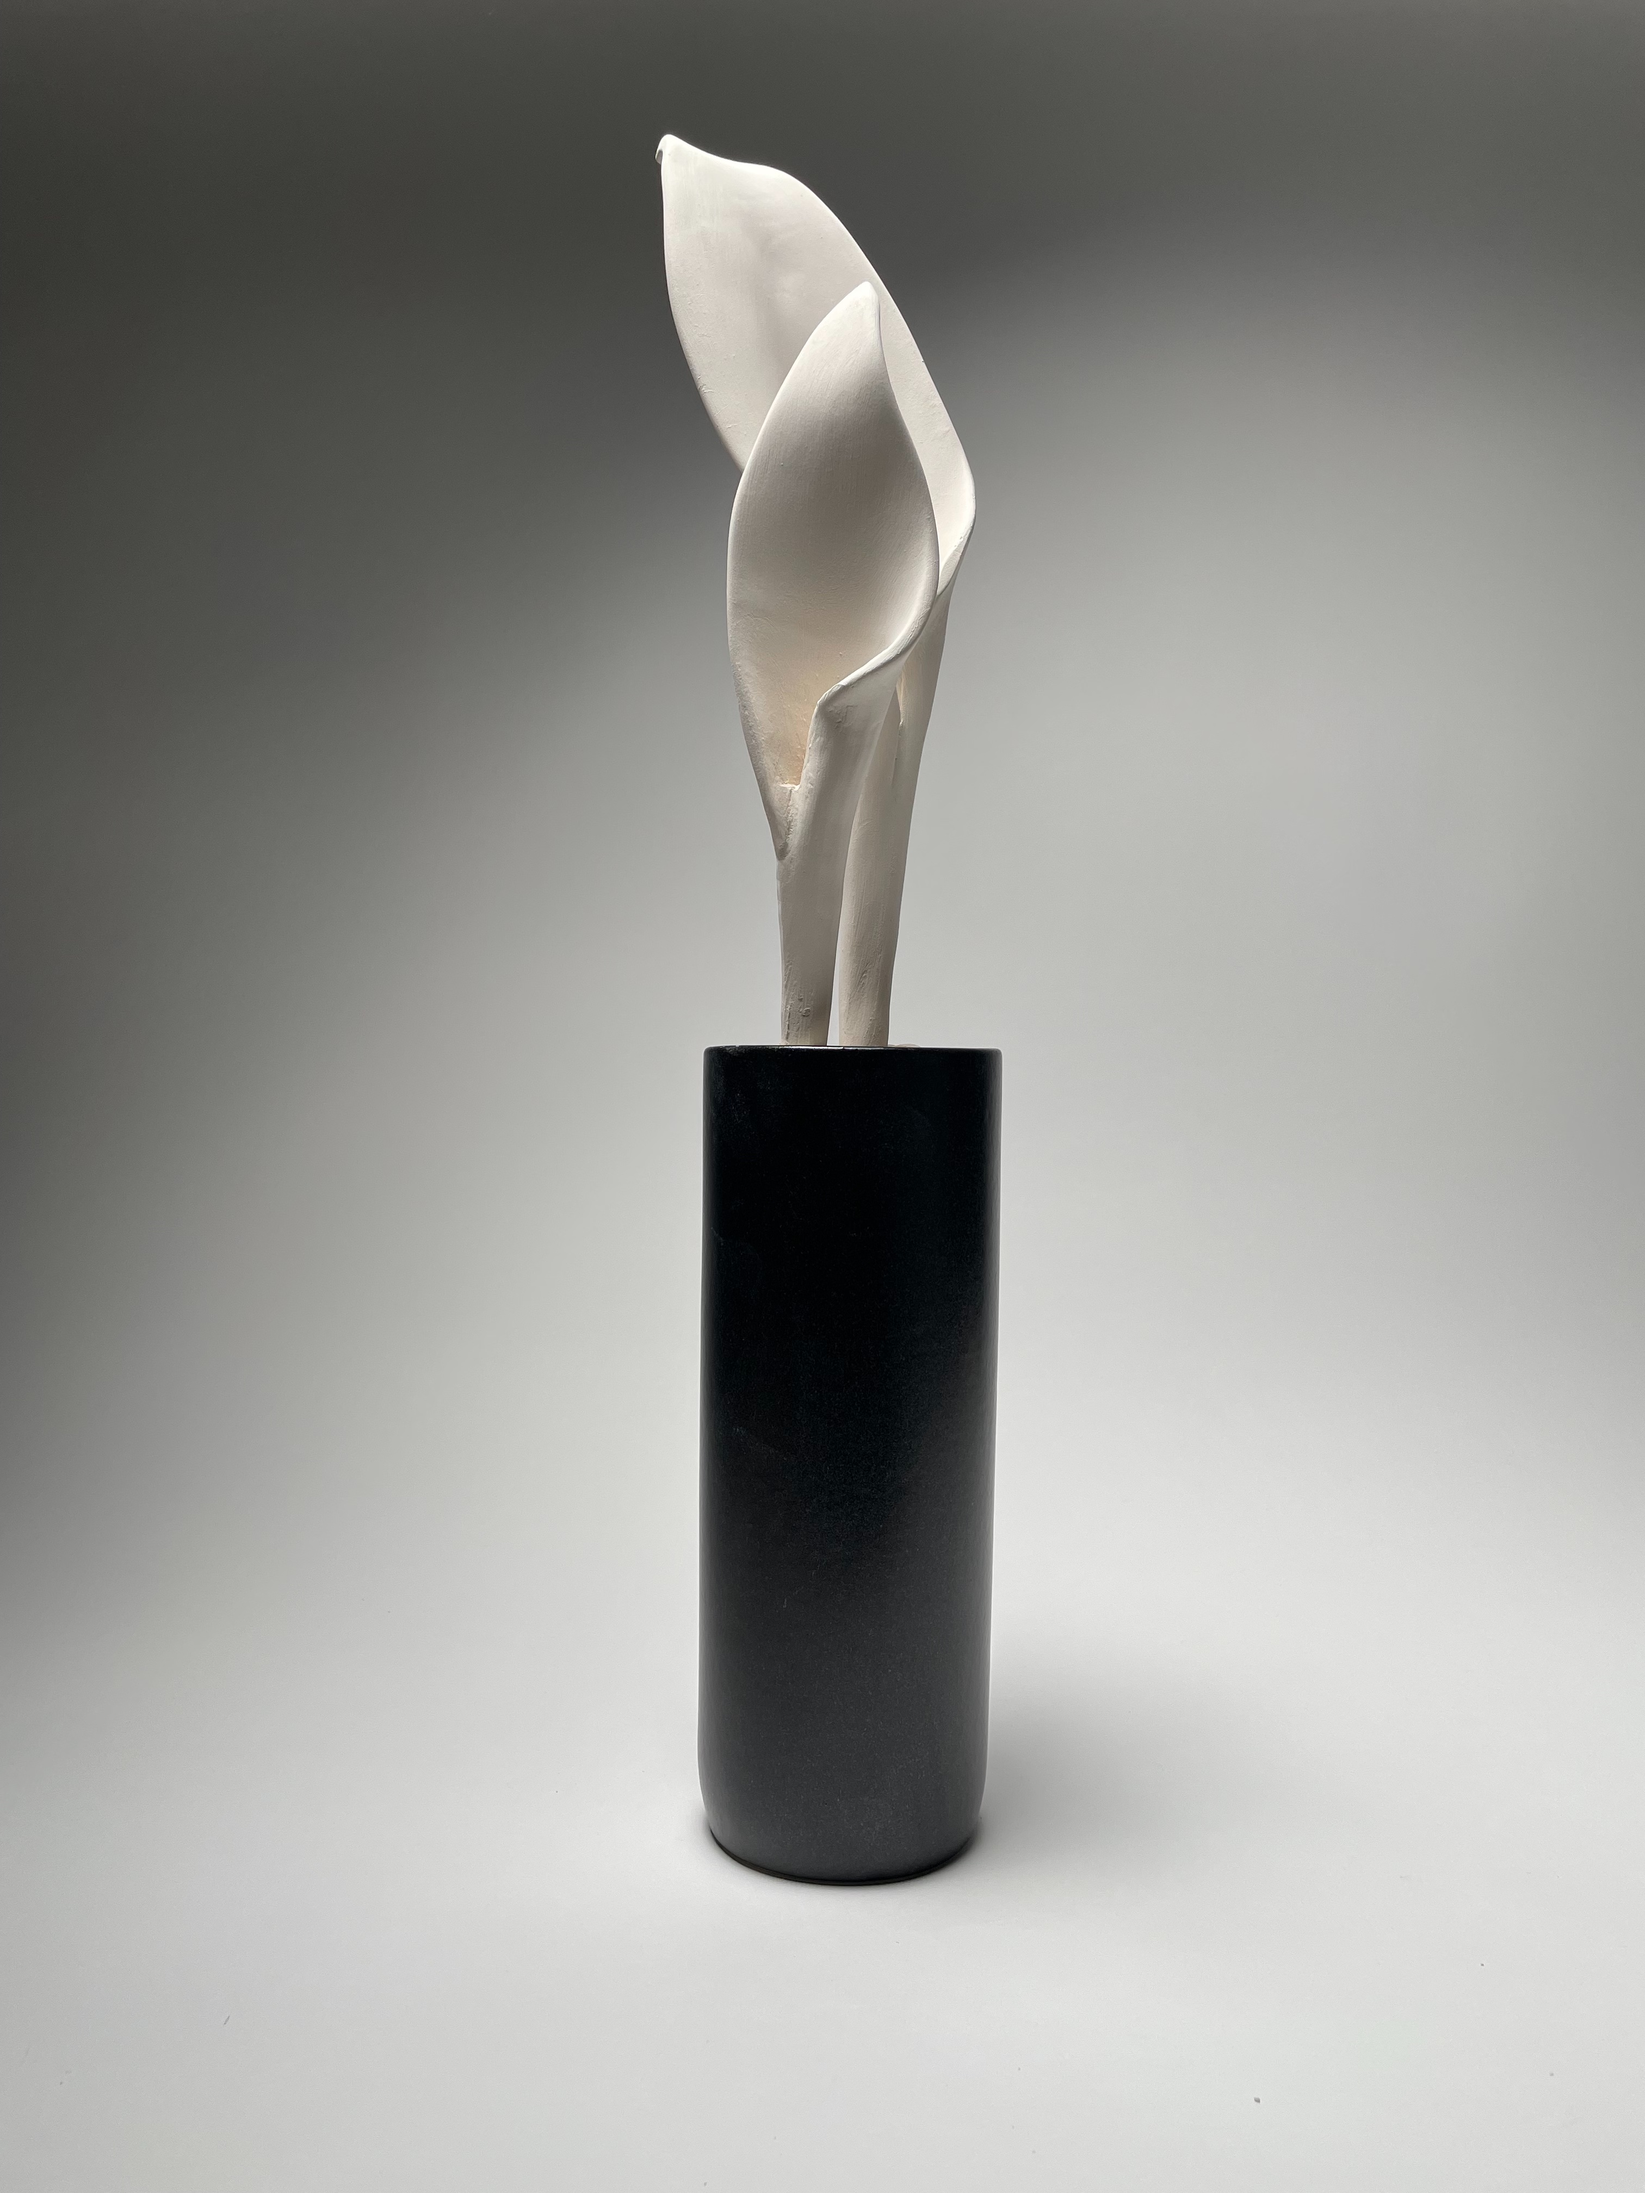
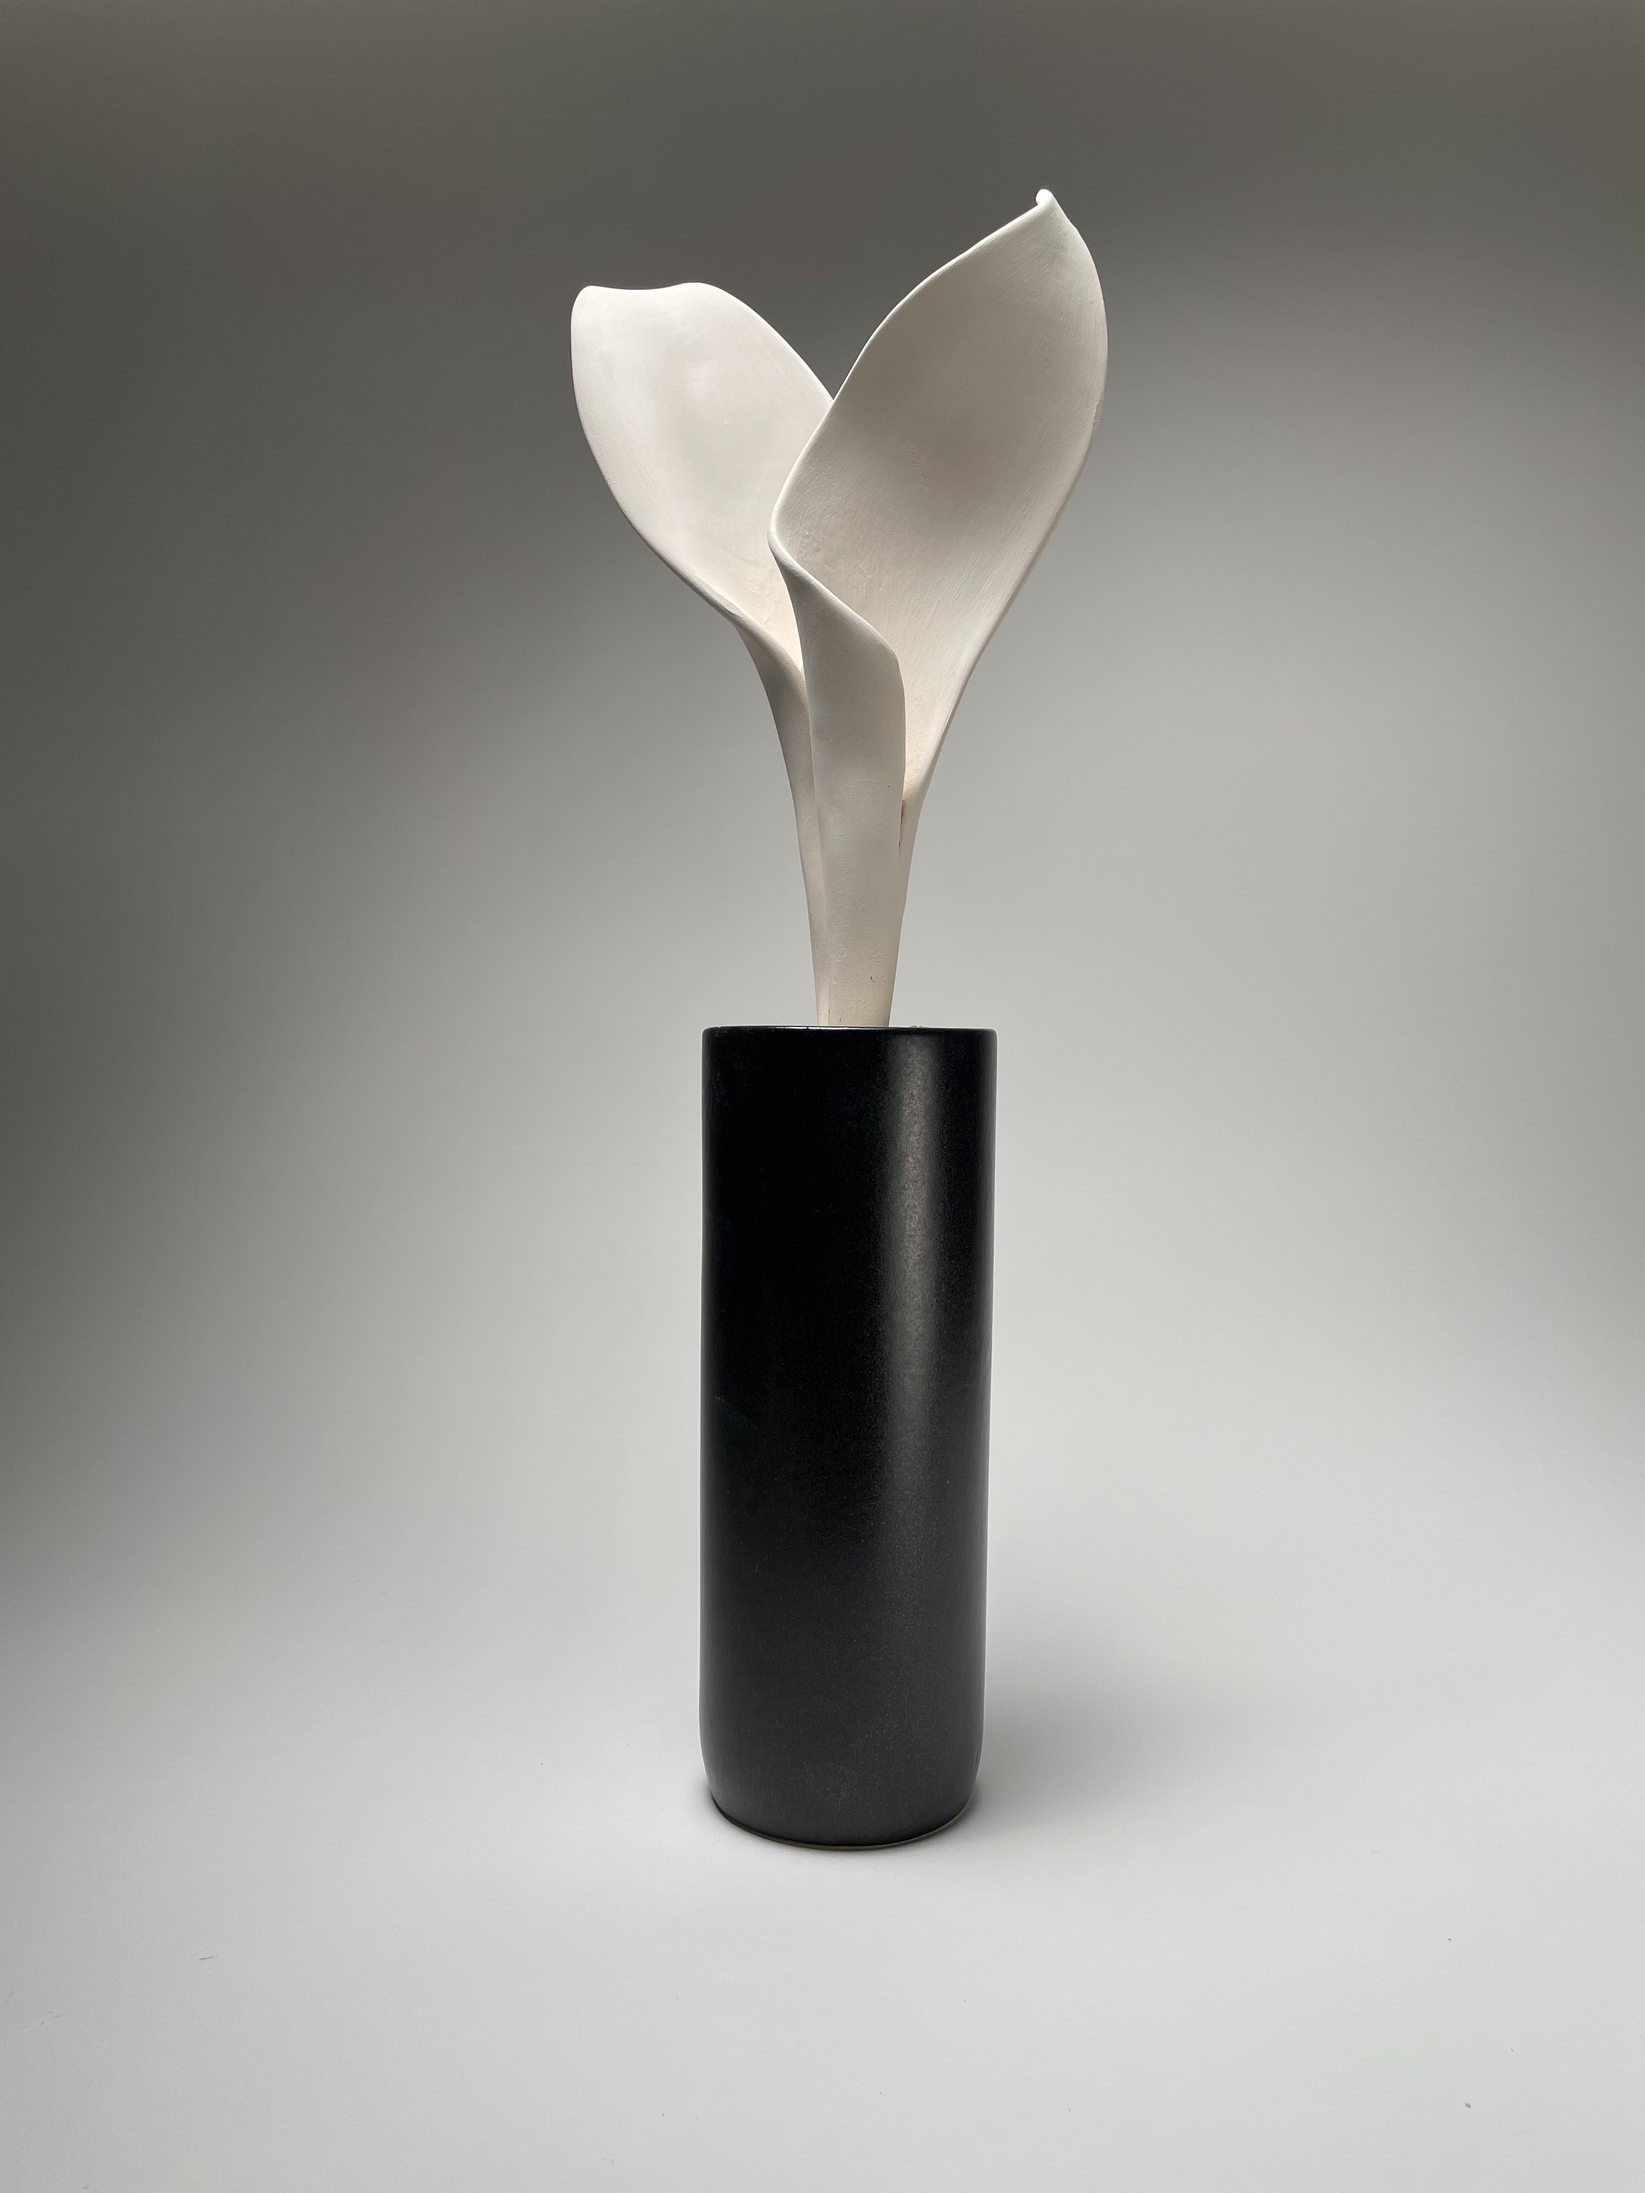
Swap gallery lily photo for new Lily_2_2 shot

Changed region(s): [[0.0, 0.0, 0.6839, 0.875]]

diff --git a/index.html b/index.html
@@ -790,7 +790,7 @@
       <div class="gallery-img-wrap"><img src="Bowl_2.jpg" alt="Wavy porcelain bowl"></div>
     </div>
     <div class="gallery-item"><div class="gallery-img-wrap"><img src="Bowl_Detail_2.jpg" alt="Bowl detail"></div></div>
-    <div class="gallery-item"><div class="gallery-img-wrap"><img src="Lily_2.jpg" alt="Lily sculpture"></div></div>
+    <div class="gallery-item"><div class="gallery-img-wrap"><img src="Lily_2.jpg?v=2" alt="Lily sculpture"></div></div>
     <div class="gallery-item"><div class="gallery-img-wrap"><img src="Lily_3.jpg?v=5" alt="Lily sculpture, detail"></div></div>
     <div class="gallery-item"><div class="gallery-img-wrap"><img src="Bowl_Detail_3.jpg" alt="Bowl detail"></div></div>
   </div>
@@ -914,7 +914,7 @@ const CONTENT = {
   gallery: [
     'Bowl_2.jpg',
     'Bowl_Detail_2.jpg',
-    'Lily_2.jpg',
+    'Lily_2.jpg?v=2',
     'Lily_3.jpg?v=5',
     'Bowl_Detail_3.jpg',
   ],
